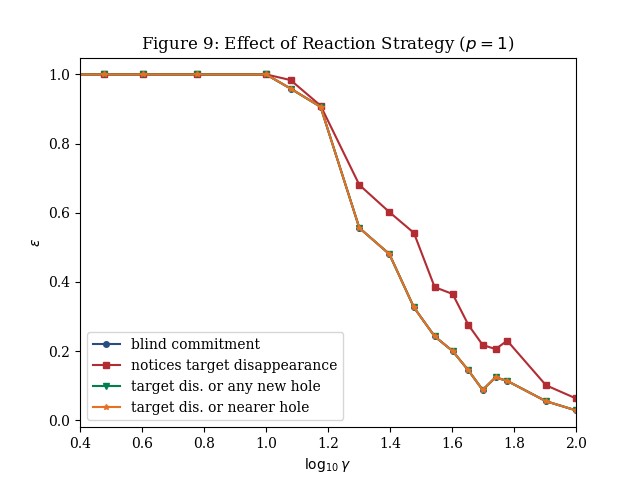
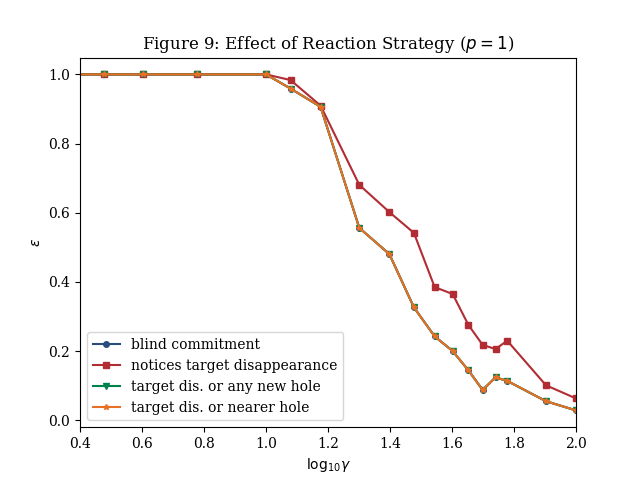
commit

diff --git a/test.py b/test.py
@@ -347,7 +347,7 @@ if __name__ == '__main__':
     rcParams['font.sans-serif'] = ['Times']  # 指定字体
     # rc('text', usetex=True)
     test = AgentTest()
-    # test.just_plot = True
+    test.just_plot = True
     # test.test12()
     # test.test3()
     # test.test4()
